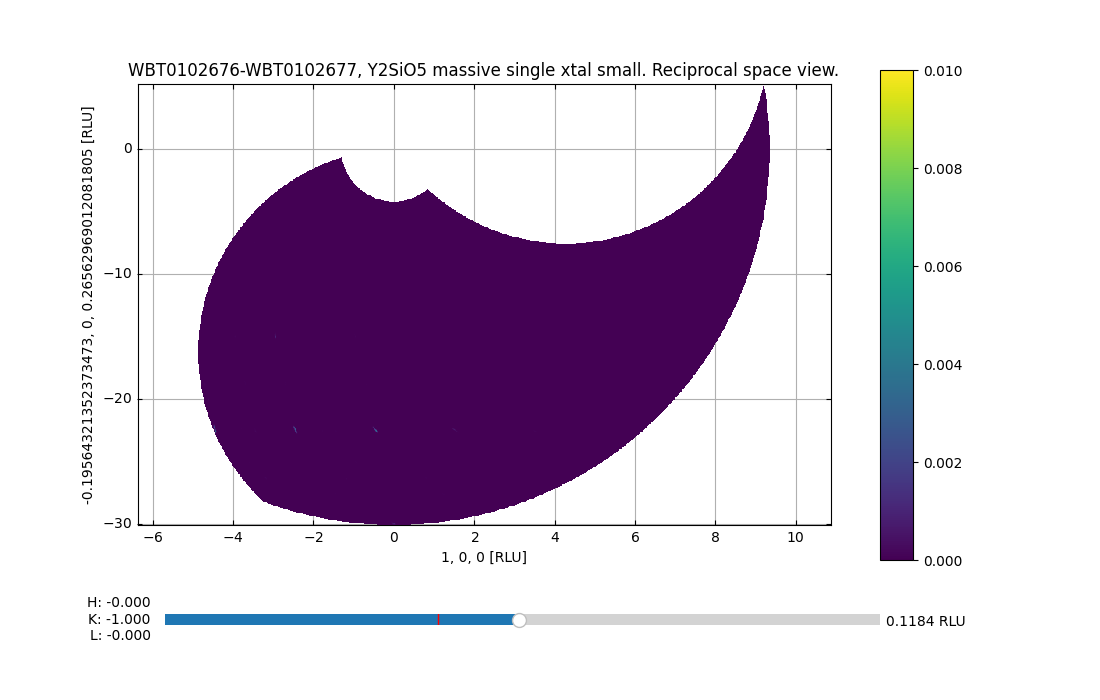
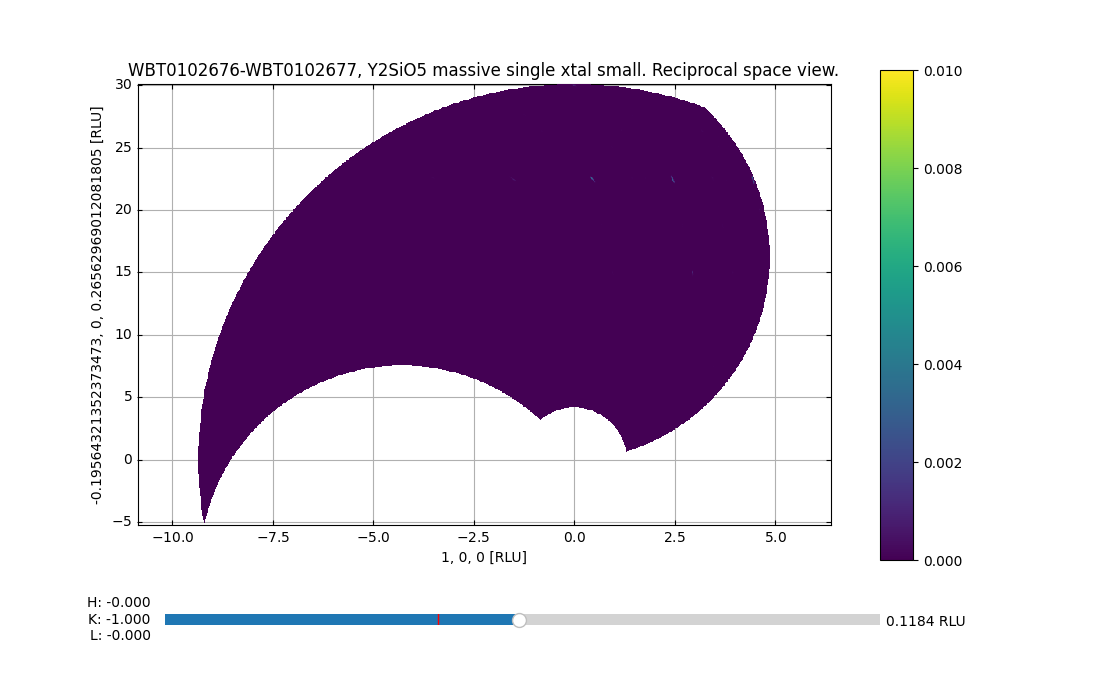
testing indexing of reflections given possibilities from multiplicity

diff --git a/wombat_Y2SiO5_example/Detector_View_Y2SiO5.py b/wombat_Y2SiO5_example/Detector_View_Y2SiO5.py
@@ -20,7 +20,7 @@ sample_name = 'Y2SiO5'
 # directory where the data are
 data_dir = os.getcwd() + '/Y2SiO5_data/'
 # One file at a time please!!!
-file_name = 'WBT0102678.nx.hdf'
+file_name = 'WBT0102676.nx.hdf'
 # Rotation axis in this case was Euler Phi
 sample_rotation_axis = 'ephi'
 
@@ -36,7 +36,7 @@ df = WombatDataFile.loadWombatDataFile(file_path,
 # run the Interactive Viewer
 IA1 = df.InteractiveViewer(sampleRotationAxis = sample_rotation_axis)
 # set colour map limits for detector view
-IA1.set_clim(0,20)
+IA1.set_clim(0,78)
 # set colour map limits for z integrated data
 IA1.set_clim_zIntegrated(0,1000)
 # set colour map limits for 2theta integrated data
@@ -48,7 +48,7 @@ IA1.fig.savefig('{0}_{1}_{2}_scan_detector_view.png'.format(sample_name,file_nam
 plt.show()
 
 # to plot a particular step
-step_number = 21
+step_number = 566
 # the function is called "plot spectrum" because it's borrowed from a data 
 # visualisation thing for a spectrometer 
 # so don't @ me!

diff --git a/wombat_Y2SiO5_example/Reciprocal_Space_View_3Dalign_Y2SiO5.py b/wombat_Y2SiO5_example/Reciprocal_Space_View_3Dalign_Y2SiO5.py
@@ -74,6 +74,8 @@ q1 = [-1.714,-0.4618,-0.069]
 q2 = [-3.971,-1.7614,-0.144]
 HKL1 = [4,0,-2]
 HKL2 = [4,0,4]
+#HKL1 = [-4,0,2] # other possibility given multiplicity of reflections
+#HKL2 = [-4,0,-4]
 
 # this function uses two coordinates in Q space and align them to corrdinates in HKL space
 ds.alignToRefs(q1 = q1, q2 = q2, HKL1 = HKL1, HKL2 = HKL2)

diff --git a/wombat_Y2SiO5_example/Reciprocal_Space_View_invAA_Y2SiO5.py b/wombat_Y2SiO5_example/Reciprocal_Space_View_invAA_Y2SiO5.py
@@ -29,7 +29,7 @@ sample_rotation_axis = 'ephi'
 
 # View 3D axis options, select one
 axis_option = 2 # view scattering plane i.e. Qx-Qy plane 
-axis_option = 1 # view out-of-plane Qx-Qz
+#axis_option = 1 # view out-of-plane Qx-Qz
 #axis_option = 0 # view other out-of-plane Qy-Qz
 
 # Load the data

diff --git a/wombat_Y2SiO5_example/UB_Matrix_and_calc_hkl_angles_Y2SiO5.py b/wombat_Y2SiO5_example/UB_Matrix_and_calc_hkl_angles_Y2SiO5.py
@@ -75,6 +75,8 @@ q1 = [-1.714,-0.4618,-0.069]
 q2 = [-3.971,-1.7614,-0.144]
 HKL1 = [4,0,-2]
 HKL2 = [4,0,4]
+#HKL1 = [-4,0,2]
+#HKL2 = [-4,0,-4]
 
 # this function uses two coordinates in Q space and align them to corrdinates in HKL space
 ds.alignToRefs(q1 = q1, q2 = q2, HKL1 = HKL1, HKL2 = HKL2)
